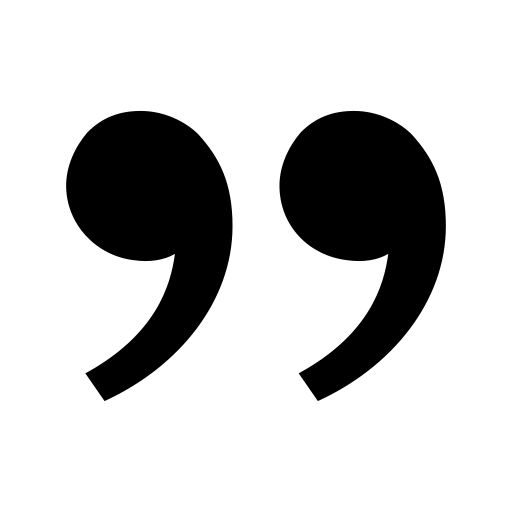
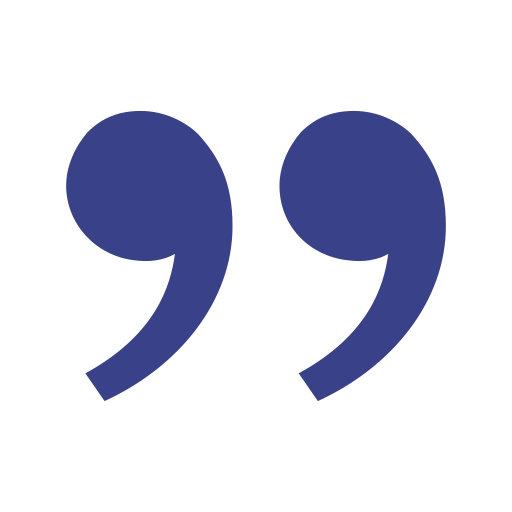
added a skillsType and added content in the header

Changed region(s): [[0.5312, 0.2188, 0.875, 0.7812], [0.125, 0.2188, 0.4688, 0.7812]]

diff --git a/assets/styles/app.scss b/assets/styles/app.scss
@@ -3,6 +3,7 @@
 $primary: #CBDDD1;
 $secondary: #CDC2FE;
 $green: #004B35;
+$info: #394188;
 
 $font-family-base:'Montserrat', sans-serif;
 $body-bg: $primary;
@@ -13,10 +14,35 @@ $link-color: $green;
 $input-border-color: $green;
 $link-decoration:none;
 
+ul {
+    list-style-type: none
+}
+
+//header
 #header {
     background-color: $secondary;
     color:#2f05eaa6;
-    height:50rem;
+    height:38rem;
+    padding-top: 3rem;
+}
+
+#header img.quote-left {
+    position: absolute;
+    height: 1.5em;
+    margin-left: -9.35em;
+    font-size: 2em;
+}
+
+#header img.quote-right {
+    position: absolute;
+    height: 1.5em;
+    font-size: 2em;
+    margin-right: 12em;
+    margin-top: -1.2em;
+}
+
+#header li {
+    font-size: 19px;
 }
 
 //project cards
@@ -49,10 +75,13 @@ $link-decoration:none;
     transform: scale(1.1);
 }
 
+#fortune-cookie img {
+    width: 5%;
+}
+
 #contact-form {
     margin: 0 auto;
 }
-
 
 //admin form
 .margin {

diff --git a/src/Controller/HomeController.php b/src/Controller/HomeController.php
@@ -3,8 +3,11 @@
 namespace App\Controller;
 
 use App\Entity\Contact;
+use App\Entity\Project;
 use App\Form\ContactType;
+use App\Form\SkillsFilterType;
 use App\Repository\ProjectRepository;
+use App\Repository\SkillRepository;
 use App\Service\FortuneCookie;
 use App\Service\FortuneCookies;
 use App\Service\GithubData;
@@ -26,7 +29,19 @@ class HomeController extends AbstractController
         GithubData $github,
         FortuneCookie $fortuneCookie,
         ProjectRepository $projectRepository,
+        SkillRepository $skillRepository,
     ): Response {
+        $SearchBySkills = $this->createForm(SkillsFilterType::class, null, ['method' => 'GET']);
+        $SearchBySkills->handleRequest($request);
+
+        $projects = $projectRepository->findAll(['id'=>'DESC']);
+
+        // if ($SearchBySkills ->isSubmitted() && $SearchBySkills->isValid()) {
+        //     $search = $SearchBySkills->getData();
+        //     $projects = $skillRepository->findSkills($search);
+        // }
+
+        //Contact Form
         $contact = new Contact();
 
         $form = $this->createForm(ContactType::class, $contact);
@@ -51,15 +66,15 @@ class HomeController extends AbstractController
                 'Votre message a été envoyé avec succès !'
             );
 
-            return $this->redirectToRoute('home', [], Response::HTTP_SEE_OTHER);
+            return $this->redirectToRoute('home', ['contact_form' => $form ], Response::HTTP_SEE_OTHER);
         }
-
+        
         return $this->render('home/index.html.twig', [
-            'controller_name' => 'HomeController',
-            'form' => $form->createView(),
+            'projects' => $projects,
+            'skills_form' => $SearchBySkills,
+            'contact_form' => $form->createView(),
             'github_contributions' => $github->getTotalContributions(),
-            'fortune_cookie' => $fortuneCookie->getMessage(),
-            'projects' => $projectRepository->findAll()
+            'fortune_cookie' => $fortuneCookie->getMessage()
         ]);
     }
 }

diff --git a/src/Repository/SkillRepository.php b/src/Repository/SkillRepository.php
@@ -21,28 +21,23 @@ class SkillRepository extends ServiceEntityRepository
         parent::__construct($registry, Skill::class);
     }
 
-//    /**
-//     * @return Skill[] Returns an array of Skill objects
-//     */
-//    public function findByExampleField($value): array
-//    {
-//        return $this->createQueryBuilder('s')
-//            ->andWhere('s.exampleField = :val')
-//            ->setParameter('val', $value)
-//            ->orderBy('s.id', 'ASC')
-//            ->setMaxResults(10)
-//            ->getQuery()
-//            ->getResult()
-//        ;
-//    }
+    public function findSkills(array $search, $project): ?array
+    {
+        $queryBuilder = $this->createQueryBuilder('s')
+        ->select('s', 'p')
+        ->join('s.project', 'p')
+        ->where('s.id == ' . $project->getId());
 
-//    public function findOneBySomeField($value): ?Skill
-//    {
-//        return $this->createQueryBuilder('s')
-//            ->andWhere('s.exampleField = :val')
-//            ->setParameter('val', $value)
-//            ->getQuery()
-//            ->getOneOrNullResult()
-//        ;
-//    }
+        if (!empty($search['skills'])) {
+            $queryBuilder = $queryBuilder
+                ->andWhere('p.skills IN (:skills)')
+                ->setParameter('skills', $search['skills']);
+        }
+
+        $queryBuilder = $queryBuilder
+            ->orderBy('p.createdAt', 'DESC')
+            ->getQuery();
+
+        return $queryBuilder->getResult();
+    }
 }

diff --git a/src/Form/SkillsFilterType.php b/src/Form/SkillsFilterType.php
@@ -1,0 +1,36 @@
+<?php
+
+namespace App\Form;
+
+use App\Entity\Skill;
+use Symfony\Bridge\Doctrine\Form\Type\EntityType;
+use Symfony\Component\Form\AbstractType;
+use Symfony\Component\Form\Extension\Core\Type\CollectionType;
+use Symfony\Component\Form\FormBuilderInterface;
+use Symfony\Component\OptionsResolver\OptionsResolver;
+
+class SkillsFilterType extends AbstractType
+{
+    public function buildForm(FormBuilderInterface $builder, array $options): void
+    {
+        $builder
+        ->add('skills', EntityType::class, [
+            'label' => 'recherche par skills',
+            'class' => Skill::class,
+            'choice_label' => 'name',
+            'attr' => [
+                'class' => 'mb-4',
+                // 'label-class' => 'form-check-label',
+            ],
+            'multiple' => true,
+            'expanded' => true,
+        ]);
+    }
+
+    public function configureOptions(OptionsResolver $resolver): void
+    {
+        $resolver->setDefaults([
+            // Configure your form options here
+        ]);
+    }
+}

diff --git a/src/Repository/ProjectRepository.php b/src/Repository/ProjectRepository.php
@@ -21,6 +21,10 @@ class ProjectRepository extends ServiceEntityRepository
         parent::__construct($registry, Project::class);
     }
 
+    public function findAll(array $orderBy = null)
+    {
+        return $this->findBy([], $orderBy);
+    }
 //    /**
 //     * @return Project[] Returns an array of Project objects
 //     */
